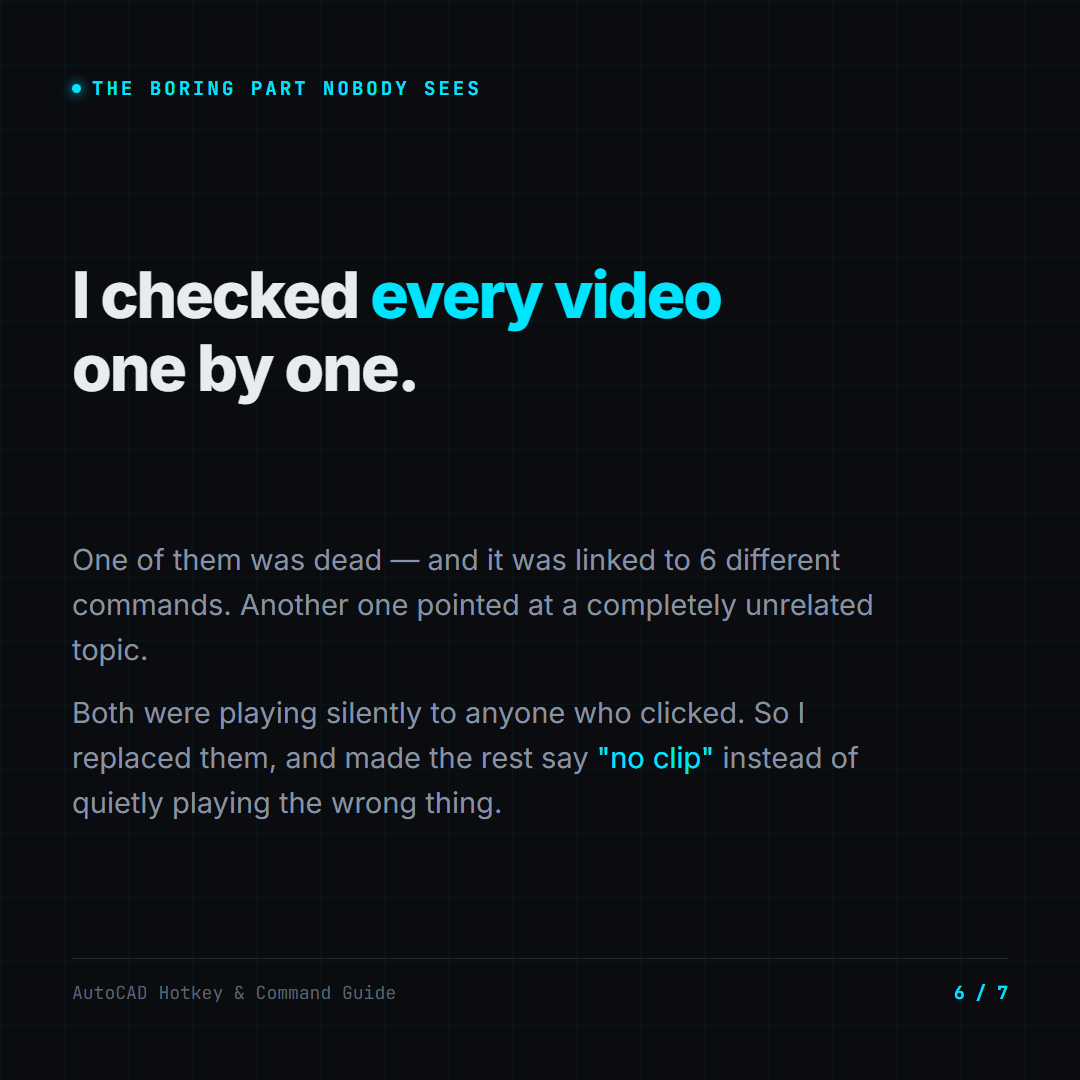
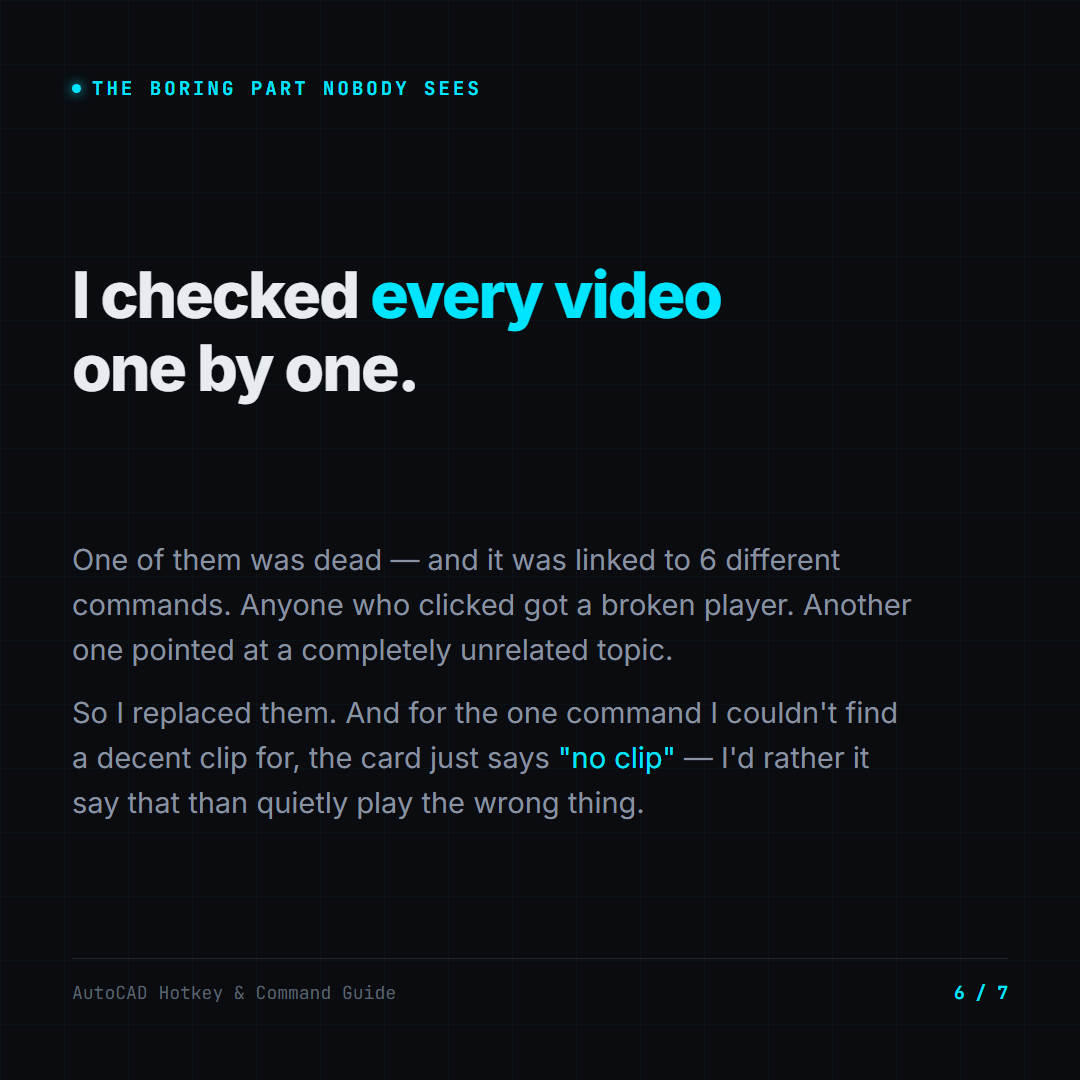
Add carousel-matched caption; correct slide 6 and 7 wording
New caption walks the same 7 beats as the slides, so the text and images
move together instead of being two unrelated pieces.

Two slide corrections:
- Slide 7 closed on "I'll bet there's a hotkey for it" - the exact
  tidy-close pattern the post copy was rewritten to avoid. Now ends on
  the same question as the caption.
- Slide 6 claimed "made the rest say no clip" (only 1 of 126 commands
  shows that card, not the rest) and "playing silently to anyone who
  clicked" (a dead video shows an unavailable player, it does not play).
  Both replaced with what actually happens.

Verified counts against the rendered page: 126 commands, 8 categories,
125 with clips, 1 without.

Changed region(s): [[0.0611, 0.6417, 0.825, 0.7639], [0.0611, 0.55, 0.8556, 0.6111]]

diff --git a/linkedin/carousel.html b/linkedin/carousel.html
@@ -172,8 +172,8 @@
     <div class="big">
       I checked <span class="hl">every video</span><br>one by one.
     </div>
-    <p style="max-width:840px">One of them was dead — and it was linked to 6 different commands. Another one pointed at a completely unrelated topic.</p>
-    <p style="max-width:840px;margin-top:18px">Both were playing silently to anyone who clicked. So I replaced them, and made the rest say <span class="hl">"no clip"</span> instead of quietly playing the wrong thing.</p>
+    <p style="max-width:840px">One of them was dead — and it was linked to 6 different commands. Anyone who clicked got a broken player. Another one pointed at a completely unrelated topic.</p>
+    <p style="max-width:840px;margin-top:18px">So I replaced them. And for the one command I couldn't find a decent clip for, the card just says <span class="hl">"no clip"</span> — I'd rather it say that than quietly play the wrong thing.</p>
     <div class="foot"><span>AutoCAD Hotkey &amp; Command Guide</span><span class="n">6 / 7</span></div>
   </div>
 </div>
@@ -188,7 +188,7 @@
       <p>126 commands · 8 categories · 125 clips at the exact timestamp.</p>
       <div class="u">darthsandd.github.io/autocad-guide</div>
     </div>
-    <p style="margin-top:30px;font-size:26px">What's the one command you still type the long way?<br>I'll bet there's a hotkey for it.</p>
+    <p style="margin-top:30px;font-size:26px">Which command do you reach for most?<br>I'm still finding ones I've typed the long way for years.</p>
     <div class="foot"><span>Built by Darren Lieu</span><span class="n">7 / 7</span></div>
   </div>
 </div>

diff --git a/linkedin/post-copy.md b/linkedin/post-copy.md
@@ -5,7 +5,40 @@
 
 ---
 
-## MAIN POST (use this)
+## ⭐ CAPTION (matched to the carousel — use this with the 7 slides)
+
+Written to walk the same 7 beats as the slides, so the text and the images
+move together. One short paragraph per slide.
+
+---
+
+I've been doing electrical and MEP drawings for years and I still Google basic AutoCAD commands.
+
+Not the hard stuff. The basic stuff. You need one command, you open YouTube, and you sit through 30 seconds of intro to find the 20 seconds you actually needed. Then you do it again next week, because you forgot to bookmark it.
+
+So I built the thing I kept wishing existed. 126 commands, 8 categories, one page. Hotkey, a one-line description, and a short clip that starts at the exact second the command gets explained. Not a full tutorial — just the part you need.
+
+And it works on your phone, which is honestly where I end up looking this stuff up. No app, no signup, no email. It's a web page.
+
+The 12 hotkeys on slide 5 are the ones that do most of the work. If you only ever learn 12, learn those.
+
+One thing I want to be straight about: I checked every single video by hand. That sounds like overkill until you find a deleted video linked to 6 different commands, or a clip about a completely unrelated topic. Both were in there. For the one command I couldn't find a decent clip for, the card just says "no clip" — I'd rather it say that than quietly play the wrong thing.
+
+It's free. Bookmark it and save yourself the next search.
+
+Which command do you reach for most? I'm still finding ones I've typed the long way for years.
+
+#AutoCAD #MEP #Drafting #CAD
+
+---
+
+**First comment** (put the link here, not in the post — LinkedIn throttles reach on body links):
+
+> Link: darthsandd.github.io/autocad-guide
+
+---
+
+## MAIN POST (longer, standalone — no carousel needed)
 
 I've been doing electrical and MEP drawings for years and I still Google basic AutoCAD commands.
 
